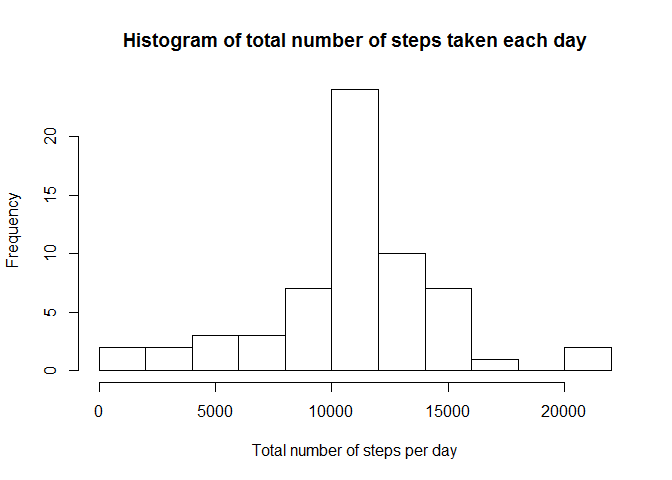
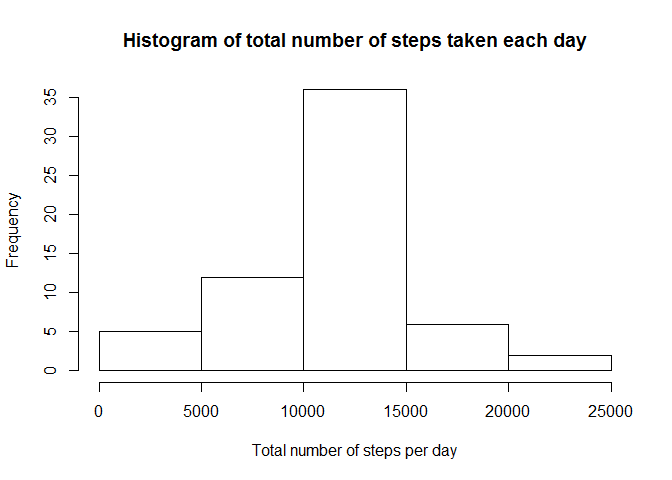
4th submission

diff --git a/PA1_template.html b/PA1_template.html
@@ -136,8 +136,8 @@ dat &lt;- read.csv(&quot;activity.csv&quot;)</code></pre>
 <pre class="r"><code>median(totalSteps)</code></pre>
 <pre><code>## [1] 10395</code></pre>
 <p>Produce a histogram of the total number of steps taken each day</p>
-<pre class="r"><code>hist(totalSteps,breaks=11,xlab=&quot;Total number of steps per day&quot;,main=&quot;Histogram of total number of steps taken each day&quot;)</code></pre>
[1 lines of base64/hex data omitted]
+<pre class="r"><code>hist(totalSteps,xlab=&quot;Total number of steps per day&quot;,main=&quot;Histogram of total number of steps taken each day&quot;)</code></pre>
[1 lines of base64/hex data omitted]
 </div>
 <div id="what-is-the-average-daily-activity-pattern" class="section level2">
 <h2>What is the average daily activity pattern?</h2>
@@ -169,8 +169,8 @@ for(i in 1:length(levels(dat$date))) {
 <p>Calculate the total number of steps taken for all the days</p>
 <pre class="r"><code>totalSteps &lt;- tapply(impDat$steps, impDat$date, sum)</code></pre>
 <p>Produce a histogram of the total number of steps taken each day</p>
-<pre class="r"><code>hist(totalSteps,breaks=11,xlab=&quot;Total number of steps per day&quot;,main=&quot;Histogram of total number of steps taken each day&quot;)</code></pre>
[1 lines of base64/hex data omitted]
+<pre class="r"><code>hist(totalSteps,xlab=&quot;Total number of steps per day&quot;,main=&quot;Histogram of total number of steps taken each day&quot;)</code></pre>
[1 lines of base64/hex data omitted]
 <pre class="r"><code>mean(totalSteps)</code></pre>
 <pre><code>## [1] 10766.19</code></pre>
 <p>and the median of steps taken per day</p>
@@ -193,10 +193,10 @@ aveWDSteps &lt;- tapply(impDat$steps,lists,mean)</code></pre>
 <pre class="r"><code>weekday &lt;- data.frame(interval=as.numeric(colnames(aveWDSteps)),avesteps=aveWDSteps[1,])
 weekend &lt;- data.frame(interval=as.numeric(colnames(aveWDSteps)),avesteps=aveWDSteps[2,])</code></pre>
 <p>Make a panel plot containing a time series plot (i.e. type = “l”) of the 5-minute interval (x-axis) and the average number of steps taken, averaged across all weekday days or weekend days (y-axis)</p>
-<pre class="r"><code>par(mfrow=c(1,2))
-plot(weekday$interval,weekday$avesteps,type=&quot;l&quot;,main=&quot;Weekday average number of\n steps per 5-min interval&quot;,xlab=&quot;Interval number&quot;,ylab=&quot;Average number of steps&quot;)
-plot(weekend$interval,weekend$avesteps,type=&quot;l&quot;,main=&quot;Weekend average number of\n steps per 5-min interval&quot;,xlab=&quot;Interval number&quot;,ylab=&quot;Average number of steps&quot;)</code></pre>
[1 lines of base64/hex data omitted]
+<pre class="r"><code>par(mfrow=c(2,1),mar = c(4, 4, 1, 1))
+plot(weekday$interval,weekday$avesteps,type=&quot;l&quot;,main=&quot;Weekday&quot;,xlab=&quot;&quot;,ylab=&quot;Average number of steps&quot;)
+plot(weekend$interval,weekend$avesteps,type=&quot;l&quot;,main=&quot;Weekend&quot;,xlab=&quot;Interval number&quot;,ylab=&quot;Average number of steps&quot;)</code></pre>
[1 lines of base64/hex data omitted]
 </div>
 
 

diff --git a/PA1_template.md b/PA1_template.md
@@ -56,7 +56,7 @@ median(totalSteps)
 Produce a histogram of the total number of steps taken each day
 
 ```r
-hist(totalSteps,breaks=11,xlab="Total number of steps per day",main="Histogram of total number of steps taken each day")
+hist(totalSteps,xlab="Total number of steps per day",main="Histogram of total number of steps taken each day")
 ```
 
 ![](PA1_template_files/figure-html/unnamed-chunk-7-1.png)<!-- -->
@@ -128,7 +128,7 @@ totalSteps <- tapply(impDat$steps, impDat$date, sum)
 Produce a histogram of the total number of steps taken each day
 
 ```r
-hist(totalSteps,breaks=11,xlab="Total number of steps per day",main="Histogram of total number of steps taken each day")
+hist(totalSteps,xlab="Total number of steps per day",main="Histogram of total number of steps taken each day")
 ```
 
 ![](PA1_template_files/figure-html/unnamed-chunk-15-1.png)<!-- -->
@@ -190,9 +190,9 @@ weekend <- data.frame(interval=as.numeric(colnames(aveWDSteps)),avesteps=aveWDSt
 Make a panel plot containing a time series plot (i.e. type = "l") of the 5-minute interval (x-axis) and the average number of steps taken, averaged across all weekday days or weekend days (y-axis)
 
 ```r
-par(mfrow=c(1,2))
-plot(weekday$interval,weekday$avesteps,type="l",main="Weekday average number of\n steps per 5-min interval",xlab="Interval number",ylab="Average number of steps")
-plot(weekend$interval,weekend$avesteps,type="l",main="Weekend average number of\n steps per 5-min interval",xlab="Interval number",ylab="Average number of steps")
+par(mfrow=c(2,1),mar = c(4, 4, 1, 1))
+plot(weekday$interval,weekday$avesteps,type="l",main="Weekday",xlab="",ylab="Average number of steps")
+plot(weekend$interval,weekend$avesteps,type="l",main="Weekend",xlab="Interval number",ylab="Average number of steps")
 ```
 
 ![](PA1_template_files/figure-html/unnamed-chunk-23-1.png)<!-- -->
